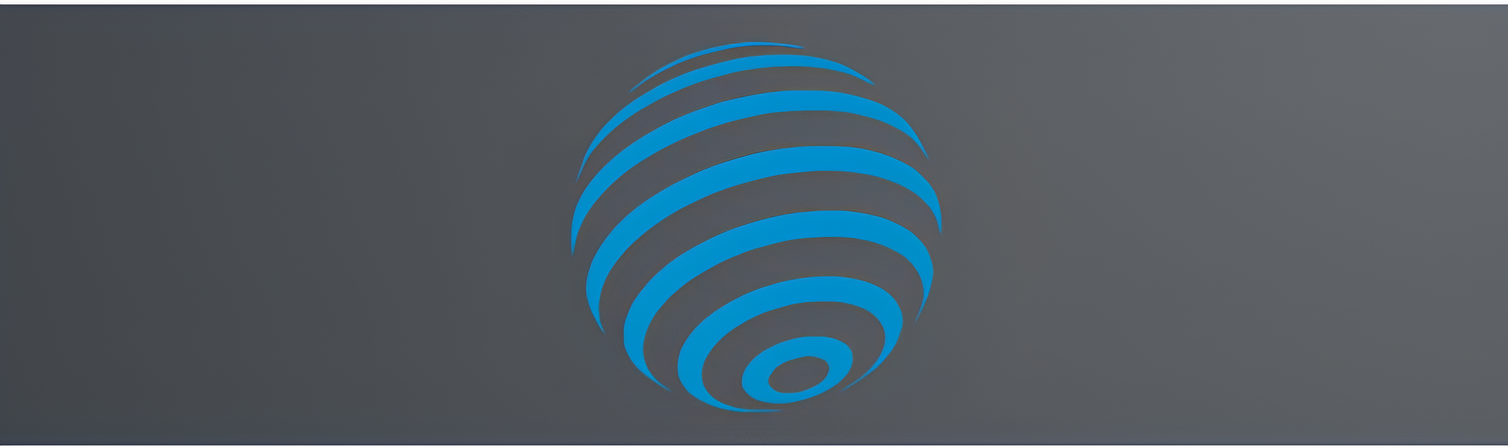
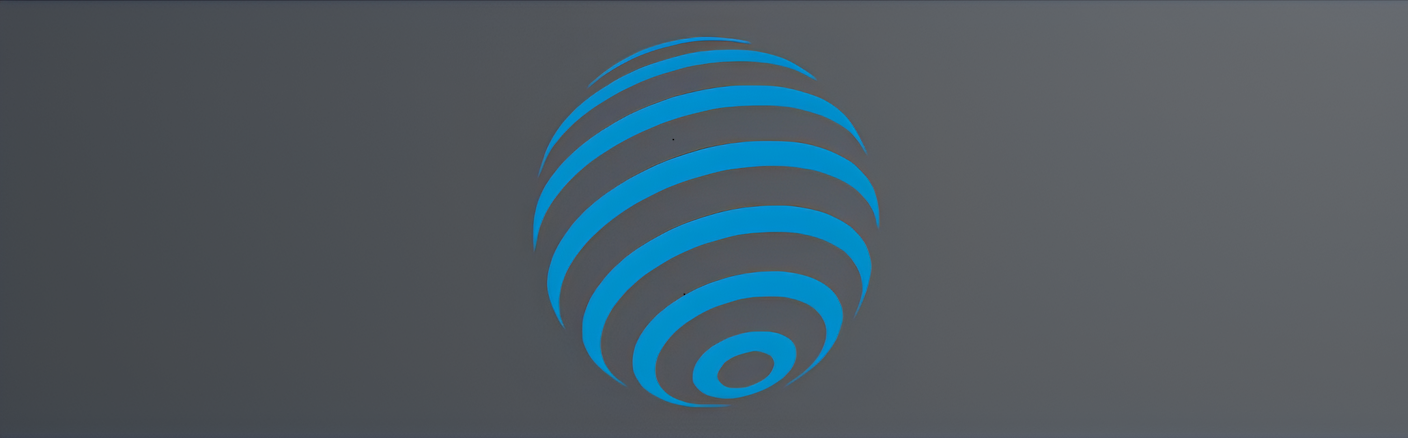
footer_E_header_finalizado

diff --git a/sprint/Agenda-react-ATUALIZADO/crud-agenda/src/App.css b/sprint/Agenda-react-ATUALIZADO/crud-agenda/src/App.css
@@ -22,14 +22,20 @@ header {
   background-color: var(--primary-color);
   display: inline-flex;
   width: 100%;
-  height: 100px;
+  height: 115px;
   align-items: center;
   justify-content: space-around;
 }
+
+/* -------------------------------------------- */
+/* SECTION_1 */
+/* -------------------------------------------- */
+
 .logo-div {
   display: flex;
   flex-direction: column;
   align-items: center;
+  margin-top: 10px;
 }
 
 .logo-div a {
@@ -38,22 +44,39 @@ header {
 }
 
 .logo-div img {
-  width: 93px;
-
-
+  width: 80px;
 }
+
+.imagens{ 
+  position: relative;
+}
+
+.logo-imghv {
+  position: absolute;
+  opacity: 0;
+  transition: opacity 0.5s ease;
+}
+
+ .logo-imghv:hover {
+  opacity: 1;
+  transition: opacity 0.5s;
+} 
+
 
 .logo-div h1 {
   color: white;
   font-size: 27px;
   transition: color 0.5s;
-  margin-top: -18px;
 }
 
 .logo-div h1:hover {
   color: var(--button-color);
   transition: color 0.5s;
 }
+
+/* -------------------------------------------- */
+/* SECTION_2_3 */
+/* -------------------------------------------- */
 
 header nav ul {
   margin: 0 !important;
@@ -66,7 +89,7 @@ header nav ul {
 
 header nav ul li a {
   color: var(--button-color);
-  font-size: 17px;
+  font-size: 27px;
   transition: color 0.5s;
 }
 
@@ -79,7 +102,7 @@ header nav ul li a:hover {
 /* FOOTER */
 /* -------------------------------------------- */
 .footer {
-  background-image: url('./assets/Background.png');
+  background-color: var(--primary-color);
   background-repeat: no-repeat;
   background-size: cover;
   background-position: center;
@@ -98,6 +121,10 @@ header nav ul li a:hover {
   color: var(--button-color)
 }
 
+/* -------------------------------------------- */
+/* SECTION_1 */
+/* -------------------------------------------- */
+
 .Redes {
   display: inline-flex;
   margin: 10px; 
@@ -114,6 +141,31 @@ header nav ul li a:hover {
   font-size: 4vh;
   flex-direction: column;
 }
+
+/* -------------------------------------------- */
+/* SECTION_2 */
+/* -------------------------------------------- */
+
+.Impresa {
+  display: flex;
+  flex-direction: column;
+  justify-content: center;
+  align-items: center;
+}
+
+.Impresa_text {
+  color: #fff;
+  display: flex;
+  flex-direction: column;
+  align-items: center;
+}
+
+.Impresa_text p {
+  font-size: 25px;
+}
+/* -------------------------------------------- */
+/* SECTION_3 */
+/* -------------------------------------------- */
 
 .Duvida {
   display:flex;

diff --git a/sprint/Agenda-react-ATUALIZADO/crud-agenda/src/components/Footer.jsx b/sprint/Agenda-react-ATUALIZADO/crud-agenda/src/components/Footer.jsx
@@ -1,4 +1,5 @@
 import React from "react";
+import logo from '../assets/logoSF.png';
 
 const Footer = () => {
     return (
@@ -10,6 +11,14 @@ const Footer = () => {
                     <a href="/">Instagram <i className="bi bi-instagram"></i></a>
                     <a href="/">Facebook <i className="bi bi-facebook"></i></a>
                     <a href="/">X  <i className="bi bi-twitter-x"></i></a>
+                </div>
+            </div>
+
+            <div className="Impresa">
+                <img src={logo } alt='' />
+                <div className="Impresa_text">
+                <h1>Brainboosters</h1>
+                <p>Conhecimento é poder, torne-se poderoso aqui na BrainBoosters</p>
                 </div>
             </div>
 

diff --git a/sprint/Agenda-react-ATUALIZADO/crud-agenda/src/components/Header.jsx b/sprint/Agenda-react-ATUALIZADO/crud-agenda/src/components/Header.jsx
@@ -1,12 +1,14 @@
 import { Link } from "react-router-dom";
-import logo from '../assets/logopqn.png'
+import logo from '../assets/logoSF.png';
+import logohv from '../assets/logoSFbranco.png';
 
 const Header = () => {
     return (
         <header>
             <div className="logo-div">
-                <Link to="/">
+                <Link to="/" className="imagens">
                     <img src={logo} alt="Logo" />
+                    <img src={logohv} alt="Logo" className="logo-imghv" />
                 </Link>
                 <a href="/"><h1>BrainBoosters</h1></a>
             </div>
